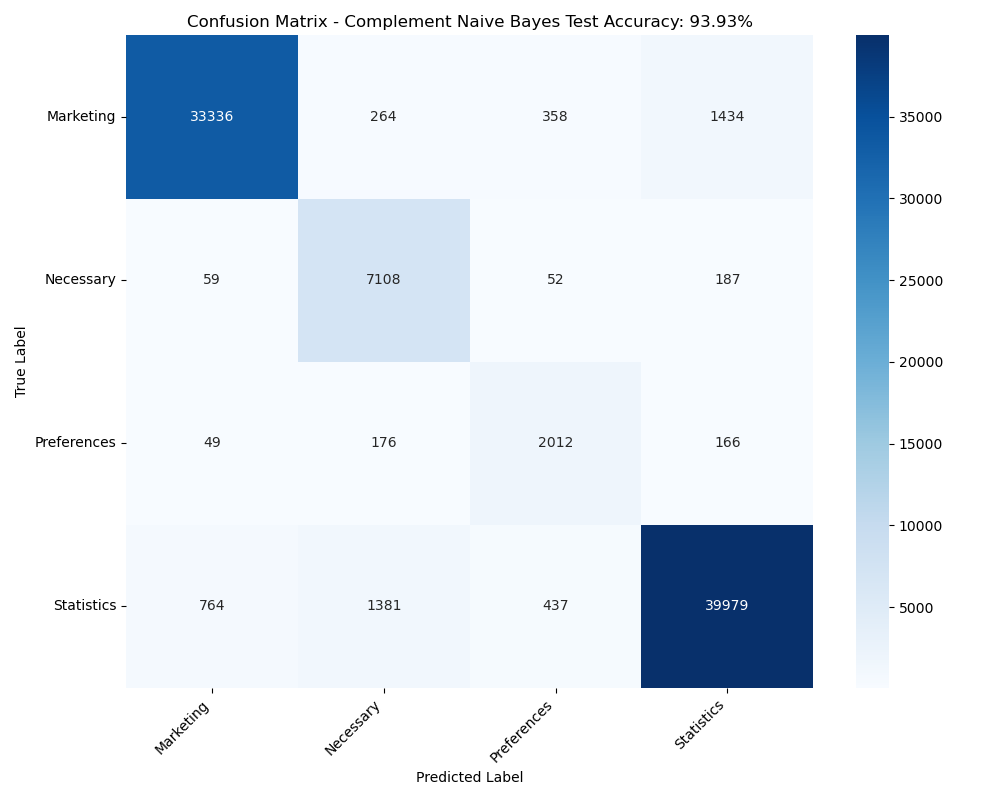
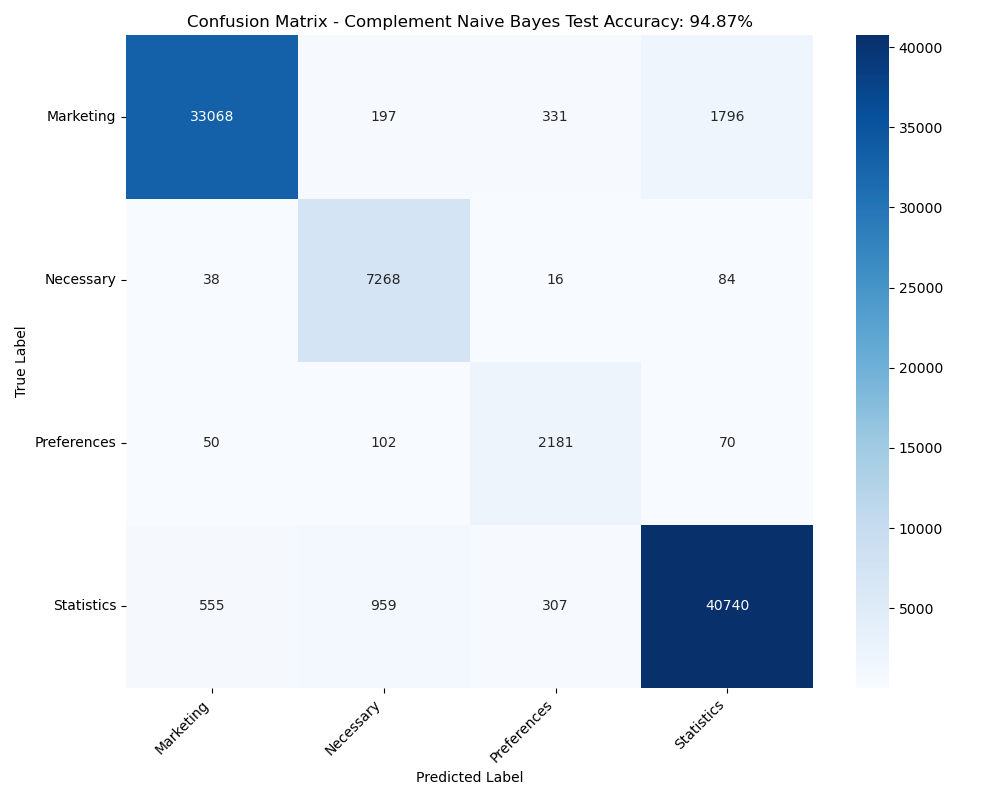
fine-tuned the naive bayes models with the introduction of 2 tf-idf stacked (chars and words)

diff --git a/cookie_classifier.py b/cookie_classifier.py
@@ -13,7 +13,7 @@ from sklearn.tree import DecisionTreeClassifier
 from sklearn.naive_bayes import MultinomialNB, ComplementNB, BernoulliNB
 from sklearn.neural_network import MLPClassifier
 from sklearn.calibration import CalibratedClassifierCV
-from sklearn.feature_selection import SelectKBest, chi2
+from sklearn.feature_selection import SelectKBest, chi2, mutual_info_classif
 from sklearn.decomposition import TruncatedSVD
 from scipy.sparse import hstack
 
@@ -414,54 +414,78 @@ def evaluate_model(model_name, y_true, y_pred, train_pred):
 # abc_test_pred = abc.predict(X_test_encoded)
 # evaluate_model("Ada Boost Classifier", y_test, abc_test_pred, abc_train_pred)
 
-print("\n" + "="*80)
-print("TRYING: Multinomial Naive Bayes")
-print("="*80)
+# print("\n" + "="*80)
+# print("TRYING: Multinomial Naive Bayes")
+# print("="*80)
 
-# # 94.14%
+# # # 94.27%
 
-word_vec = TfidfVectorizer(ngram_range=(1,2), min_df=3, sublinear_tf=True)
-char_vec = TfidfVectorizer(analyzer="char_wb", ngram_range=(3,6), min_df=10, sublinear_tf=True)
+# word_vec_mnb = TfidfVectorizer(ngram_range=(1,2), min_df=4, sublinear_tf=True)
+# char_vec_mnb = TfidfVectorizer(analyzer="char_wb", ngram_range=(3,6), min_df=9, sublinear_tf=True)
 
-Xtr_w = word_vec.fit_transform(X_train_text)
-Xte_w = word_vec.transform(X_test_text)
+# Xtr_w_mnb = (word_vec_mnb.fit_transform(X_train_text)).astype("float32")
+# Xte_w_mnb = (word_vec_mnb.transform(X_test_text)).astype("float32")
 
-Xtr_c = char_vec.fit_transform(X_train_text)
-Xte_c = char_vec.transform(X_test_text)
+# Xtr_c_mnb = (char_vec_mnb.fit_transform(X_train_text)).astype("float32")
+# Xte_c_mnb = (char_vec_mnb.transform(X_test_text)).astype("float32")
 
-k_word = 18500         
-k_char = 8000         
+# k_word = 18500         
+# k_char = 8000         
 
-sel_w = SelectKBest(chi2, k=k_word)
-sel_c = SelectKBest(chi2, k=k_char)
+# sel_w_mnb = SelectKBest(chi2, k=k_word)
+# sel_c_mnb = SelectKBest(chi2, k=k_char)
 
-Xtr_ws = sel_w.fit_transform(Xtr_w, y_train)
-Xte_ws = sel_w.transform(Xte_w)
+# Xtr_ws_mnb = sel_w_mnb.fit_transform(Xtr_w_mnb, y_train)
+# Xte_ws_mnb = sel_w_mnb.transform(Xte_w_mnb)
 
-Xtr_cs = sel_c.fit_transform(Xtr_c, y_train)
-Xte_cs = sel_c.transform(Xte_c)
+# Xtr_cs_mnb = sel_c_mnb.fit_transform(Xtr_c_mnb, y_train)
+# Xte_cs_mnb = sel_c_mnb.transform(Xte_c_mnb)
 
-Xtr = hstack([Xtr_ws, Xtr_cs])
-Xte = hstack([Xte_ws, Xte_cs])
+# Xtr_mnb = hstack([Xtr_ws_mnb, Xtr_cs_mnb])
+# Xte_mnb = hstack([Xte_ws_mnb, Xte_cs_mnb])
 
-clf = MultinomialNB(alpha=1e-9)
-clf.fit(Xtr, y_train)
-evaluate_model(f"Multinomial Naive Bayes", y_test, clf.predict(Xte), clf.predict(Xtr))
+# mnb = MultinomialNB(alpha=1e-9)
+# sw = compute_sample_weight(class_weight={"Necessary": 1.4, "Preferences": 1.3, "Statistics": 1.3, "Marketing": 1.1}, y=y_train)
+# mnb.fit(Xtr_mnb, y_train, sample_weight=sw)
+# mnb_train_predict_label = mnb.predict(Xtr_mnb)
+# mnb_test_predict_label = mnb.predict(Xte_mnb)
+# evaluate_model("Multinomial Naive Bayes", y_test, mnb_test_predict_label, mnb_train_predict_label)
 
 # print("\n" + "="*80)
 # print("TRYING: Complement Naive Bayes")
 # print("="*80)
 
-# # 93,93 %%
+# # # 94.87 %%
 
-# selector_cnb = SelectKBest(chi2, k=17000)
-# X_train_small_cnb = selector_cnb.fit_transform(X_train_encoded, y_train)
-# X_test_small_cnb = selector_cnb.transform(X_test_encoded)
+# word_vec_cnb = TfidfVectorizer(ngram_range=(1,2), min_df=5, sublinear_tf=True)
+# char_vec_cnb = TfidfVectorizer(analyzer="char_wb", ngram_range=(3,6), min_df=9, sublinear_tf=True)
+
+# Xtr_w_cnb = (word_vec_cnb.fit_transform(X_train_text)).astype("float32")
+# Xte_w_cnb = (word_vec_cnb.transform(X_test_text)).astype("float32")
+
+# Xtr_c_cnb = (char_vec_cnb.fit_transform(X_train_text)).astype("float32")
+# Xte_c_cnb = (char_vec_cnb.transform(X_test_text)).astype("float32")
+
+# k_word = 50000         
+# k_char = 35000         
+
+# sel_w_cnb = SelectKBest(chi2, k=k_word)
+# sel_c_cnb = SelectKBest(chi2, k=k_char)
+
+# Xtr_ws_cnb = sel_w_cnb.fit_transform(Xtr_w_cnb, y_train)
+# Xte_ws_cnb = sel_w_cnb.transform(Xte_w_cnb)
+
+# Xtr_cs_cnb = sel_c_cnb.fit_transform(Xtr_c_cnb, y_train)
+# Xte_cs_cnb = sel_c_cnb.transform(Xte_c_cnb)
+
+# Xtr_cnb = hstack([Xtr_ws_cnb, Xtr_cs_cnb])
+# Xte_cnb = hstack([Xte_ws_cnb, Xte_cs_cnb])
 
 # cnb = ComplementNB(alpha=1e-8)
-# cnb.fit(X_train_small_cnb, y_train)
-# cnb_train_pred = cnb.predict(X_train_small_cnb)
-# cnb_test_pred = cnb.predict(X_test_small_cnb)
+# sw = compute_sample_weight(class_weight={"Necessary": 1.8, "Preferences": 1.4, "Statistics": 1.3, "Marketing": 1.0}, y=y_train)
+# cnb.fit(Xtr_cnb, y_train, sample_weight=sw)
+# cnb_train_pred = cnb.predict(Xtr_cnb)
+# cnb_test_pred = cnb.predict(Xte_cnb)
 # evaluate_model("Complement Naive Bayes", y_test, cnb_test_pred, cnb_train_pred)
 
 # print("\n" + "="*80)
